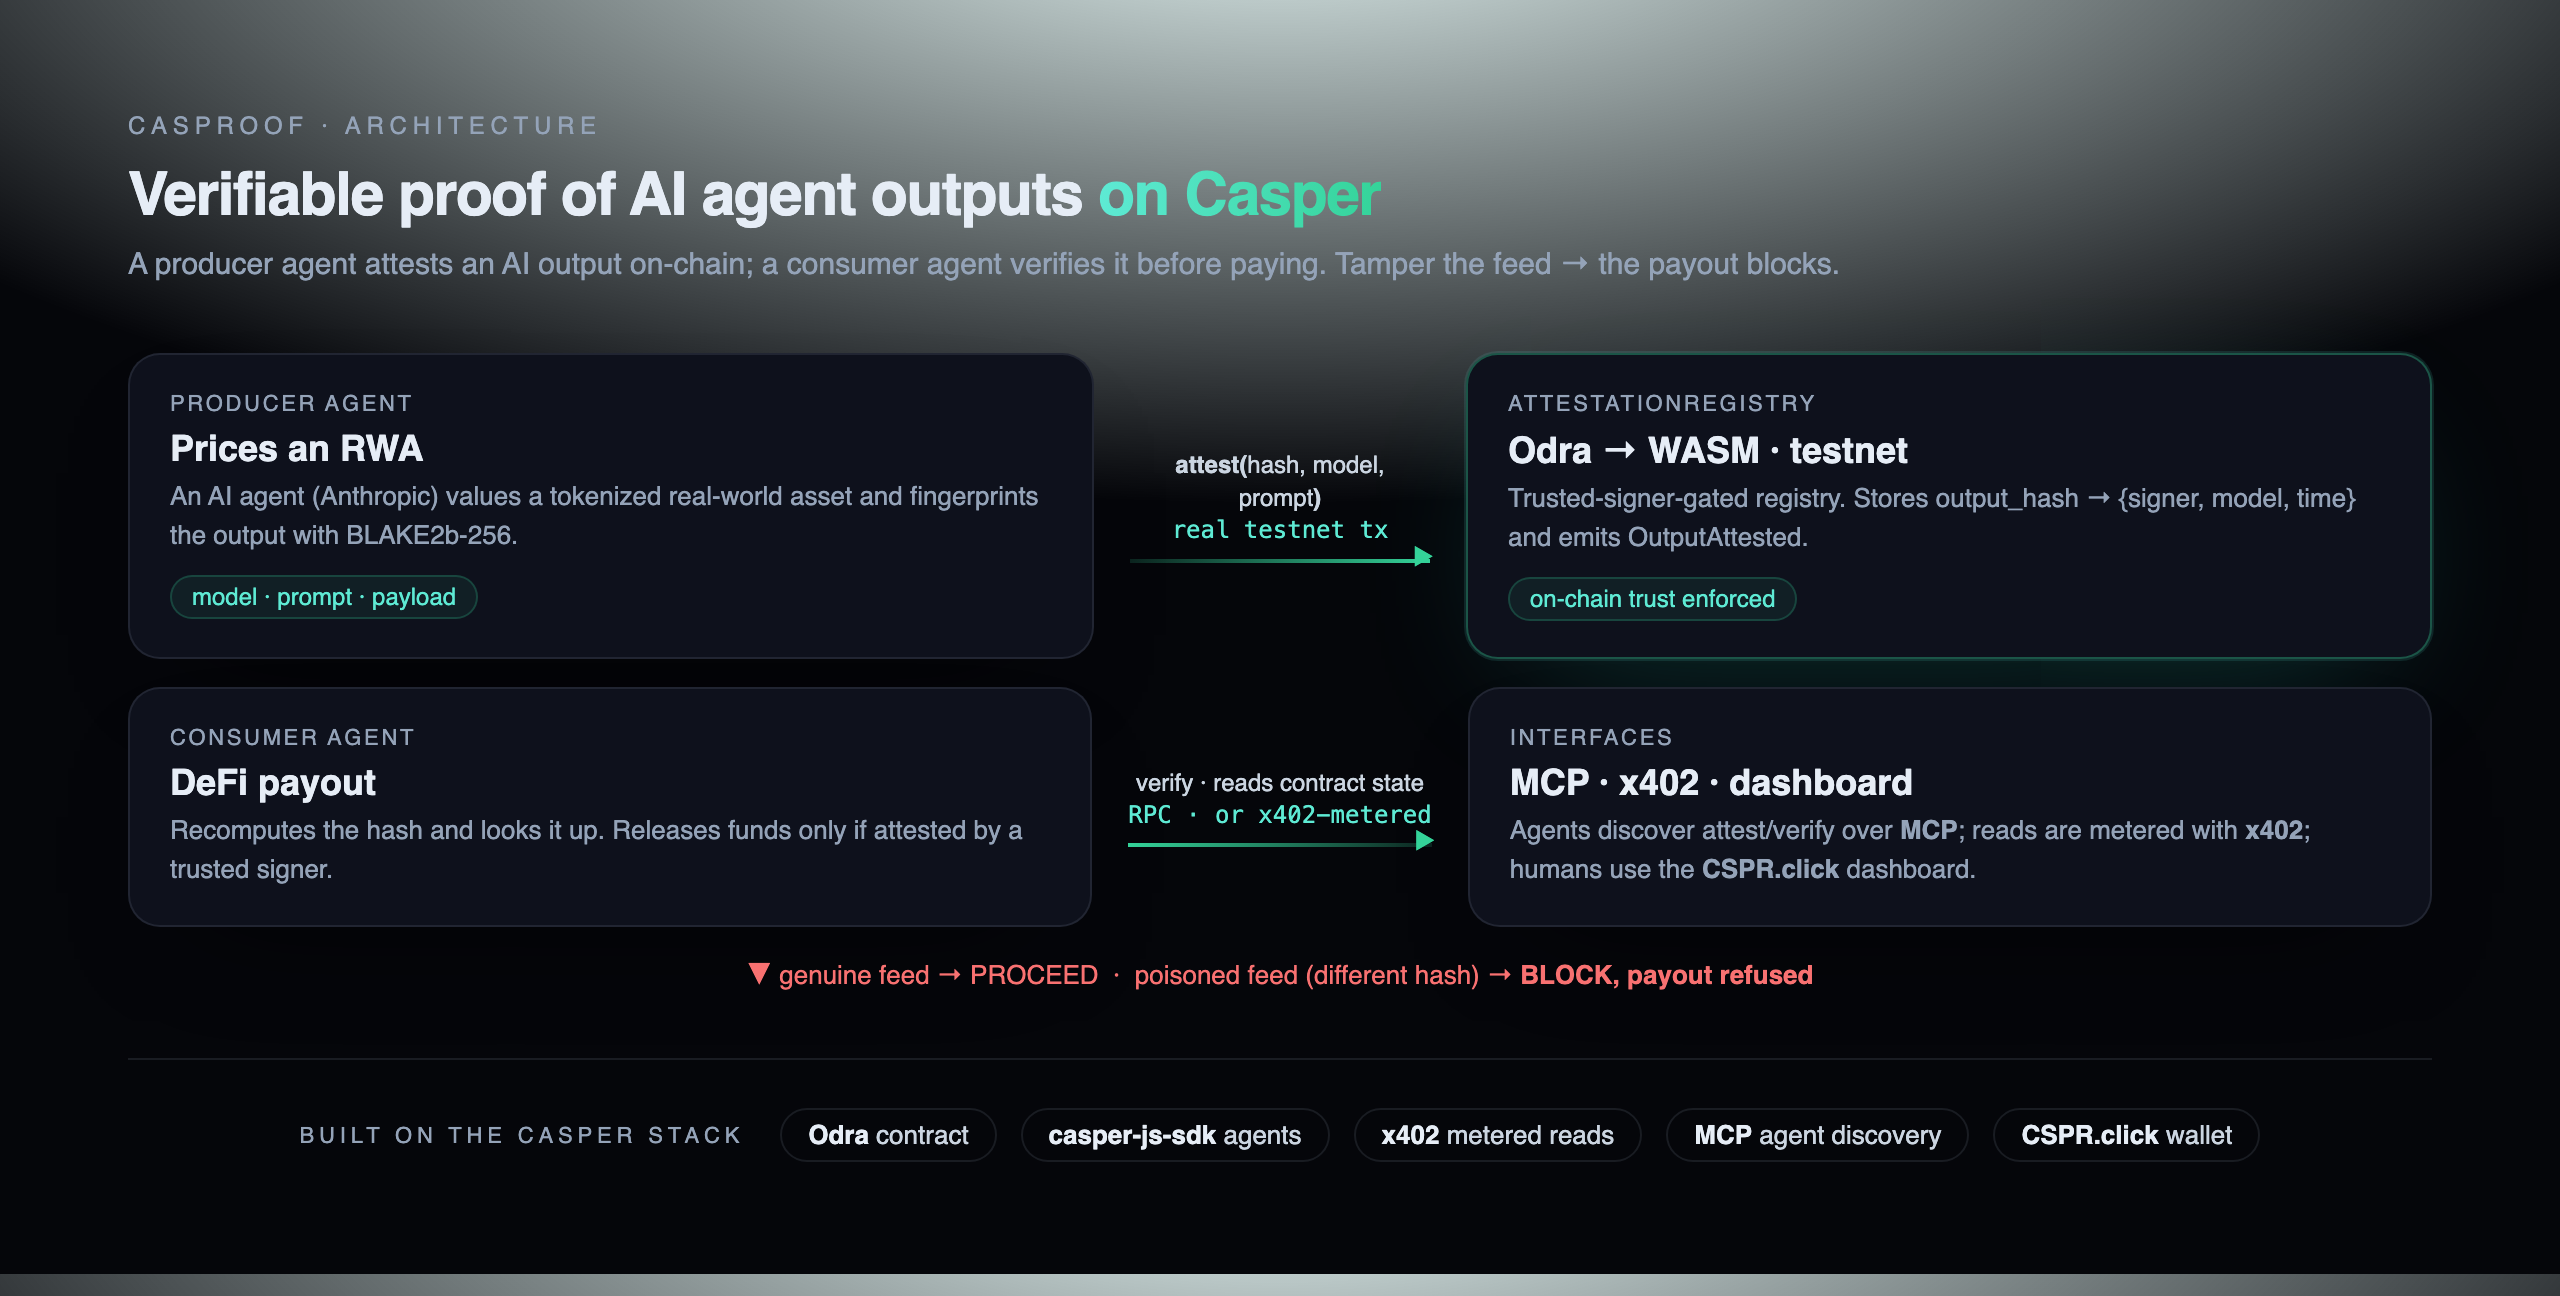
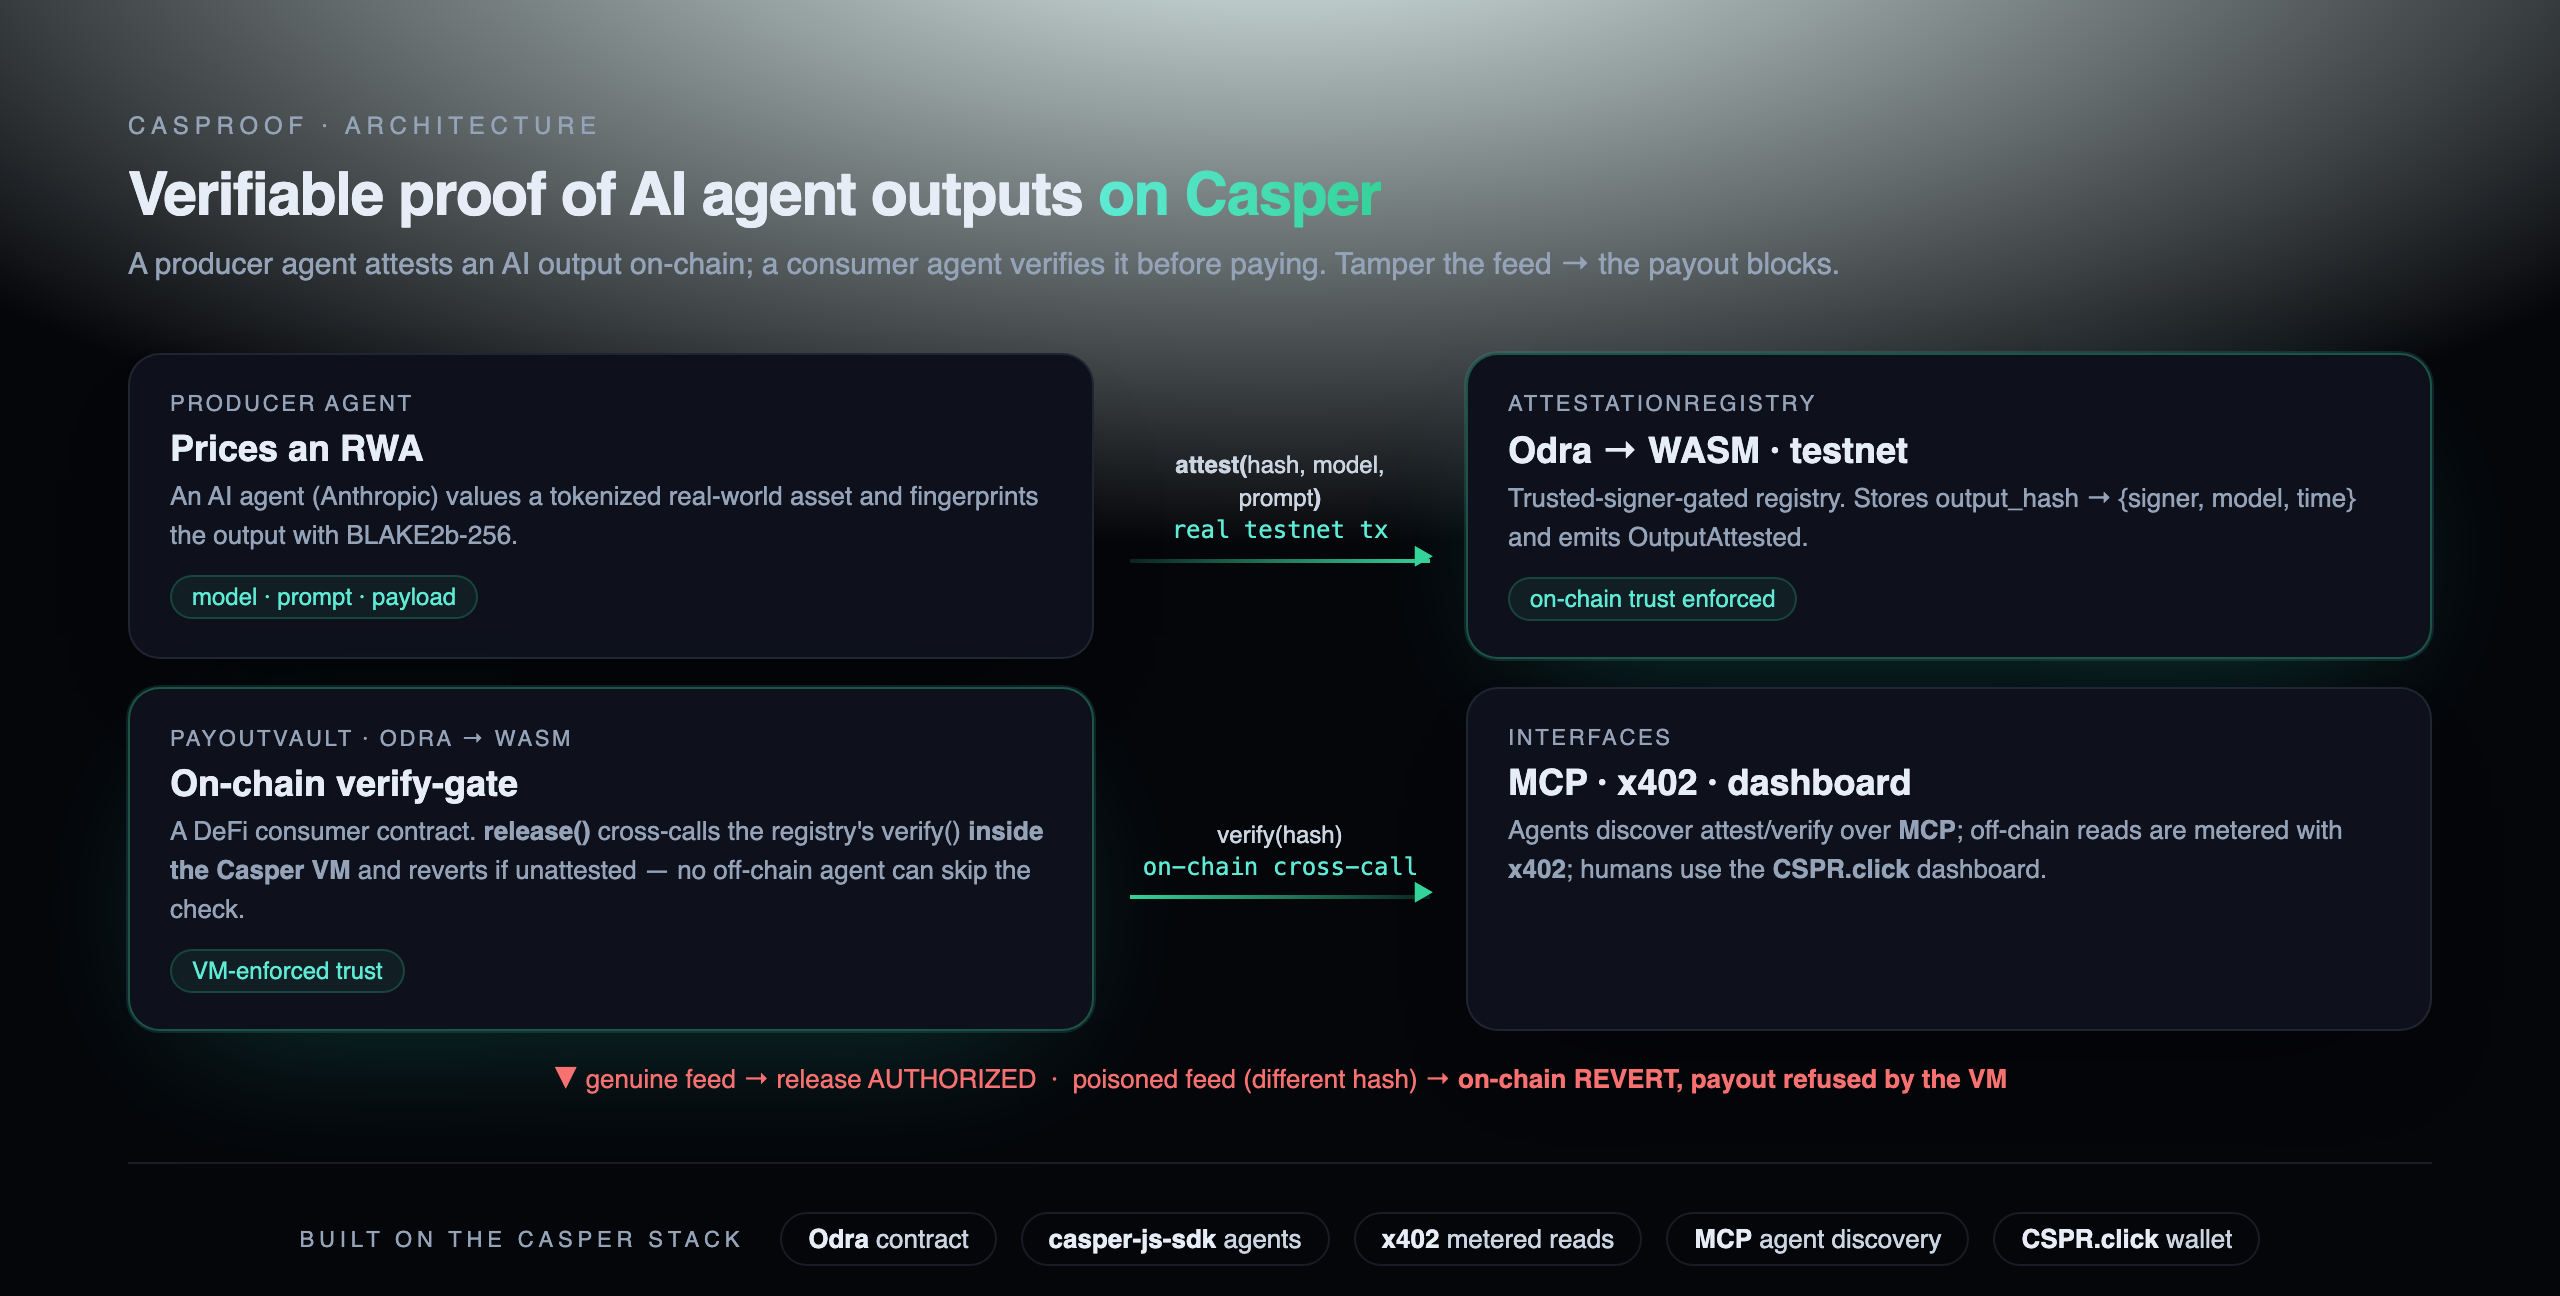
docs: feature the on-chain verify-gate (PayoutVault) in README + diagram

diff --git a/docs/architecture.html b/docs/architecture.html
@@ -61,23 +61,24 @@
     </div>
 
     <div class="row">
-      <div class="card">
-        <div class="tag">Consumer agent</div>
-        <div class="title">DeFi payout</div>
-        <div class="desc">Recomputes the hash and looks it up. Releases funds only if attested by a trusted signer.</div>
+      <div class="card mint">
+        <div class="tag">PayoutVault · Odra → WASM</div>
+        <div class="title">On-chain verify-gate</div>
+        <div class="desc">A DeFi consumer contract. <b>release()</b> cross-calls the registry's verify() <b>inside the Casper VM</b> and reverts if unattested — no off-chain agent can skip the check.</div>
+        <span class="pill">VM-enforced trust</span>
       </div>
       <div class="arrow">
-        <div class="lbl">verify · reads contract state<br/><span class="mono" style="color:var(--mint-soft)">RPC · or x402-metered</span></div>
+        <div class="lbl">verify(hash)<br/><span class="mono" style="color:var(--mint-soft)">on-chain cross-call</span></div>
         <div class="ln" style="background: linear-gradient(90deg, var(--mint), rgba(52,211,153,.15));"></div>
       </div>
       <div class="card">
         <div class="tag">Interfaces</div>
         <div class="title">MCP · x402 · dashboard</div>
-        <div class="desc">Agents discover attest/verify over <b>MCP</b>; reads are metered with <b>x402</b>; humans use the <b>CSPR.click</b> dashboard.</div>
+        <div class="desc">Agents discover attest/verify over <b>MCP</b>; off-chain reads are metered with <b>x402</b>; humans use the <b>CSPR.click</b> dashboard.</div>
       </div>
     </div>
 
-    <div class="down">▼ genuine feed → PROCEED &nbsp;·&nbsp; poisoned feed (different hash) → <b>BLOCK, payout refused</b></div>
+    <div class="down">▼ genuine feed → release AUTHORIZED &nbsp;·&nbsp; poisoned feed (different hash) → <b>on-chain REVERT, payout refused by the VM</b></div>
 
     <div class="stack">
       <span class="k">Built on the Casper stack</span>

diff --git a/README.md b/README.md
@@ -27,6 +27,10 @@ The registry **gates `attest()` to trusted signers on-chain** — an untrusted c
 
 The consumer reads the attestation **straight from the contract's state in the node** (no indexer, no API key required), by re-deriving the Odra storage key for the registry's `attestations` mapping and querying the dictionary item over RPC. CSPR.cloud's event index is supported as a fallback.
 
+### On-chain enforcement — the verify-gate
+
+An off-chain consumer is convenient, but it's just software that could be patched to skip the check. So Casproof also ships **`PayoutVault`**, a second Casper contract whose `release(output_hash)` **cross-calls the registry's `verify()` inside the VM** and reverts (`NotAttested`) for a tampered or unattested feed. The verify-before-act decision is enforced by the Casper VM — not by any off-chain process. A poisoned feed produces an **on-chain revert** visible on the explorer; no agent can override it. Two interacting contracts, two transaction types, one unfakeable trust guarantee.
+
 ### Metered verification (x402)
 
 Verification can be sold per-read. The `/verify` endpoint is paywalled with [x402](https://x402.org): an unpaid request gets `402 Payment Required` with Casper payment requirements (`casper:casper-test`); the client attaches an `X-PAYMENT` header; the request is settled through the hosted Casper facilitator (`x402-facilitator.cspr.cloud`); only then does the endpoint perform the real on-chain read. An oracle operator earns per verified read while agents pay only for what they consume.
@@ -47,7 +51,7 @@ This is exactly the pattern Casper's AI toolkit is built around — *agents disc
 
 | Path | What it is |
 |---|---|
-| `contract/` | `AttestationRegistry` — an [Odra](https://odra.dev) (Rust → WASM) smart contract for Casper. Trusted-signer-gated `attest`, `verify`, owner-managed allow-list, and on-chain signer `reputation`. |
+| `contract/` | Two [Odra](https://odra.dev) (Rust → WASM) contracts: `AttestationRegistry` (trusted-signer-gated `attest`, `verify`, allow-list, on-chain `reputation`) and **`PayoutVault`** — a DeFi consumer that cross-calls `verify()` on-chain and reverts unless the output is attested. |
 | `agents/` | TypeScript producer + consumer agents, the on-chain read library, the x402 verify server, the **MCP server**, and the keygen/deploy/resolve scripts (`casper-js-sdk` v5, Anthropic API). |
 | `ui/` | Next.js dashboard (CSPR.click wallet connect) — verify an output, show the attestation badge + explorer link, and the live poison→block contrast screen. |
 
@@ -78,11 +82,14 @@ npm run keygen                   # generate a fresh ed25519 key → keys/produce
 #   → fund the printed public key once at https://testnet.cspr.live/tools/faucet
 
 npm run deploy                   # install the registry on testnet (uses PRODUCER_KEY_PATH)
-npm run resolve                  # print REGISTRY_CONTRACT_HASH from your account's named keys
-#   → paste it into .env
+npm run resolve                  # print REGISTRY_CONTRACT_HASH + REGISTRY_PACKAGE_HASH
+#   → paste both into .env
+
+npm run deploy:vault             # install PayoutVault wired to the registry (needs REGISTRY_PACKAGE_HASH)
+npm run resolve:vault            # print VAULT_CONTRACT_HASH → paste into .env
 
 npm run producer                 # produce an RWA valuation + attest it on-chain (prints tx + explorer link)
-npm run demo                     # full story: genuine feed → PAY, poisoned feed → BLOCK
+npm run demo                     # genuine → PAY, poisoned → BLOCK, plus the on-chain vault gate (authorize vs revert)
 npm test                         # unit tests (+ a deploy-gated integration test)
 ```
 